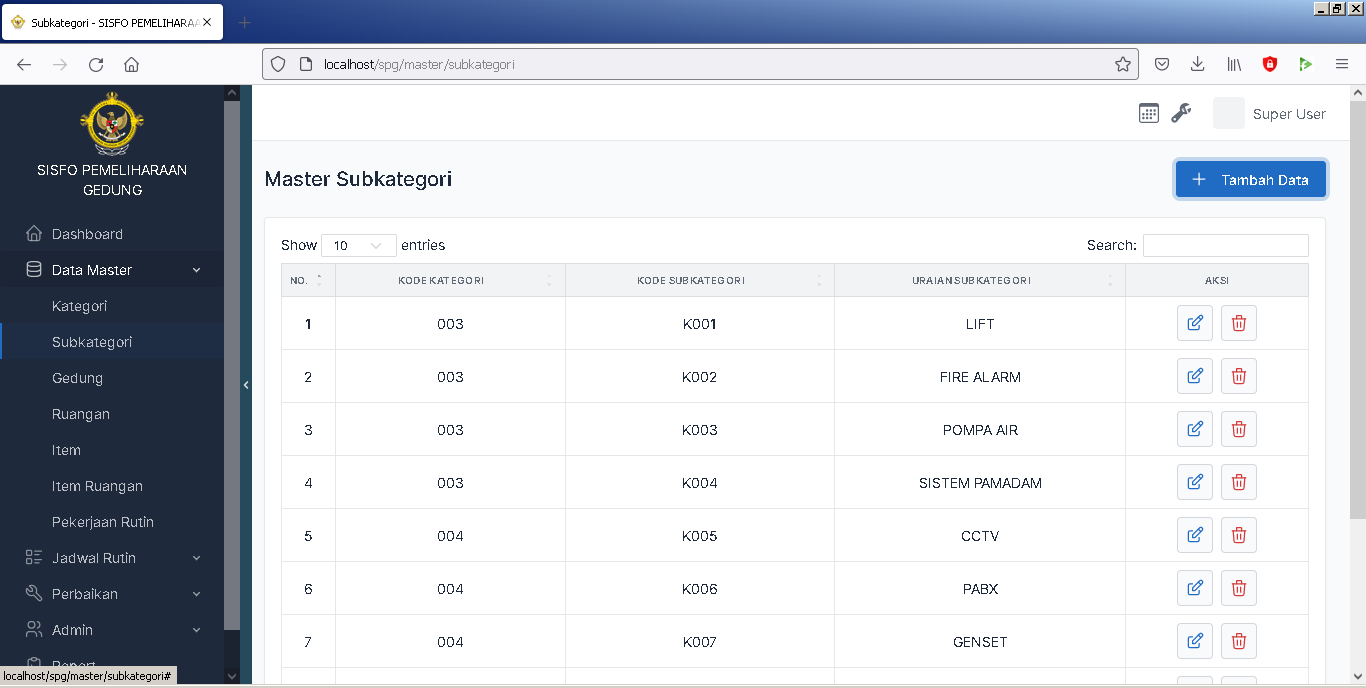
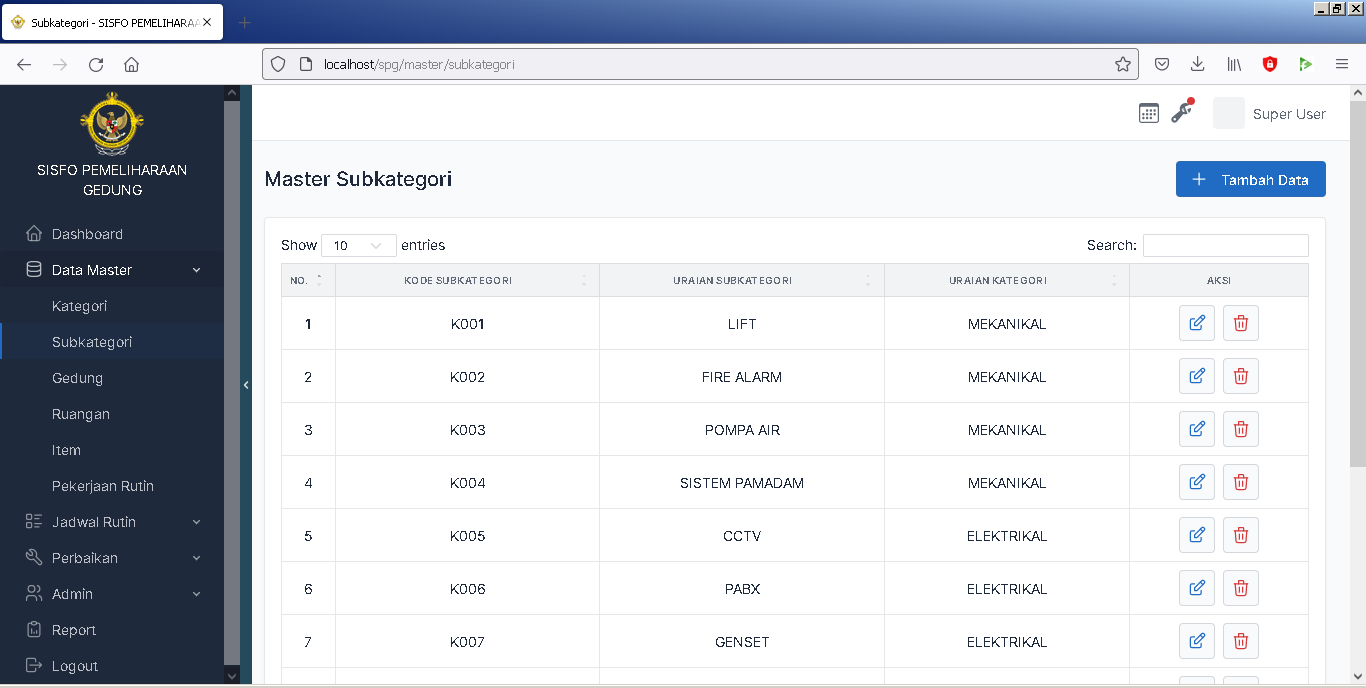
ubahan kecil

diff --git a/application/controllers/C_jadwal.php b/application/controllers/C_jadwal.php
@@ -116,7 +116,7 @@ class C_jadwal extends CI_Controller
                     $qitem = $query->first_row();
                     $subkategori = $qitem->id_subkategori;
                     //Ambil data pkrutin berdasarkan id_kategori
-                    $query = $this->db->query("select id_pkrutin val, CONCAT_WS(' / ' , jenis_pekerjaan, uraian_pekerjaan) as deskripsi 
+                    $query = $this->db->query("select id_pkrutin val, CONCAT_WS(' / ' , jenis_pekerjaan) as deskripsi 
                                 from mst_pkrutin where id_subkategori =$subkategori");
                 } else if ($tipe == "draft") {
 

diff --git a/application/views/tabler/master/v_subkategori_js.php b/application/views/tabler/master/v_subkategori_js.php
@@ -106,13 +106,13 @@
             visible: false,
             searchable: false,
         }, {
-            data: 'kode_kategori',
-            className: 'text-center'
-        }, {
             data: 'kode_subkategori',
             className: 'text-center'
         }, {
             data: 'uraian_subkategori',
+            className: 'text-center'
+        }, {
+            data: 'uraian_kategori',
             className: 'text-center'
         }, {
             data: null,

diff --git a/application/views/tabler/jadwal/v_rutin.php b/application/views/tabler/jadwal/v_rutin.php
@@ -150,7 +150,7 @@
 
 
                       <div class="table-responsive mt-3">
-                        <table class="table table-vcenter text-nowrap table-bordered" id='postsList' width="100%" cellspacing="0">
+                        <table class="table table-vcenter text-wrap table-bordered" id='postsList' width="100%" cellspacing="0">
                           <thead>
                             <tr>
                               <th class="w-1">Aksi</th>

diff --git a/application/views/tabler/master/v_subkategori.php b/application/views/tabler/master/v_subkategori.php
@@ -57,9 +57,9 @@
                                 <th>nn Tindakan</th>
 
 
-                                <th>Kode Kategori</th>
                                 <th>Kode Subkategori</th>
                                 <th>Uraian Subkategori</th>
+                                <th>Uraian Kategori</th>
                                 <th>Aksi</th>
                             </tr>
                         </thead>
